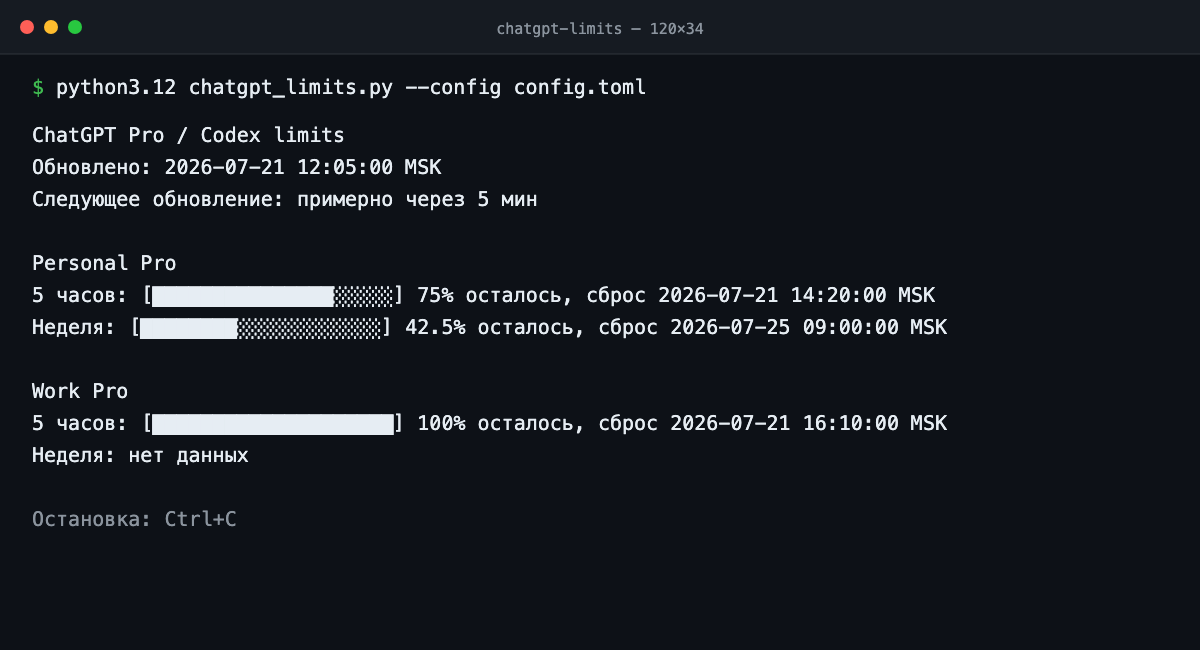
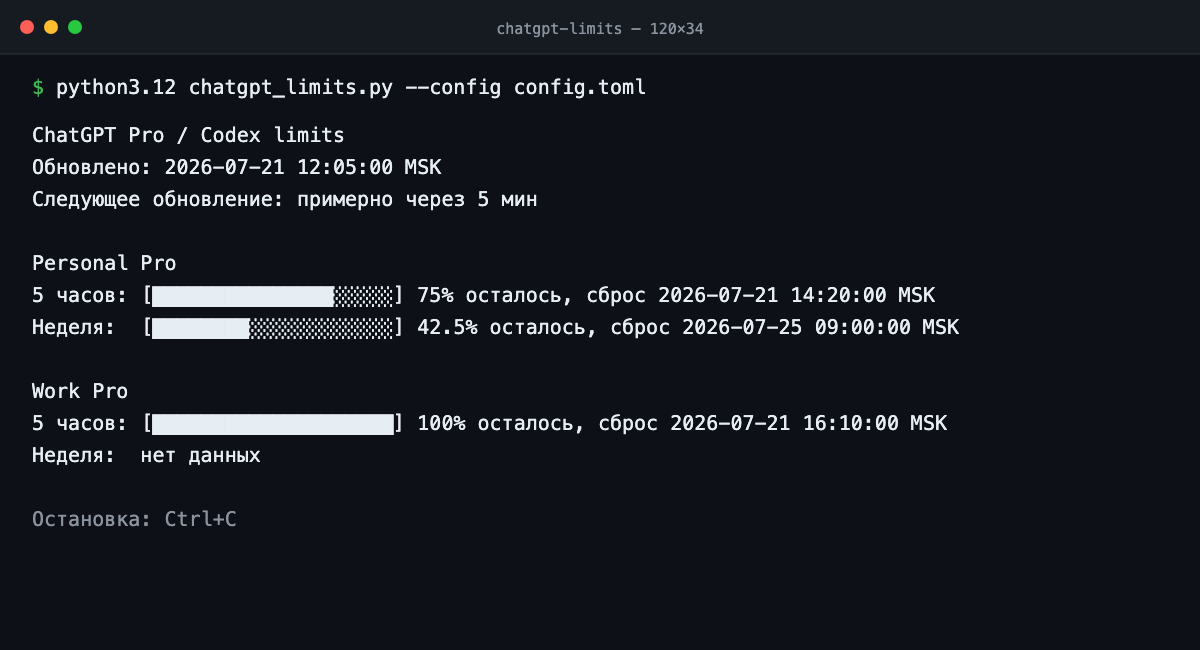
Align rate limit columns for 1.1.0

diff --git a/chatgpt_limits.py b/chatgpt_limits.py
@@ -17,10 +17,14 @@ from typing import BinaryIO, Dict, List, Optional, Pattern, Sequence, Set
 
 APP_NAME: str = "chatgpt-limits"
 APP_TITLE: str = "ChatGPT Limits"
-APP_VERSION: str = "1.0.0"
+APP_VERSION: str = "1.1.0"
 SCREEN_TITLE: str = "ChatGPT Pro / Codex limits"
 FIVE_HOUR_LABEL: str = "5 часов"
 WEEK_LABEL: str = "Неделя"
+LIMIT_VALUE_COLUMN: int = max(
+    len(f"  {FIVE_HOUR_LABEL}: "),
+    len(f"  {WEEK_LABEL}: "),
+)
 NO_DATA_TEXT: str = "нет данных"
 UNKNOWN_RESET_TEXT: str = "сброс неизвестен"
 STOP_TEXT: str = "Остановка: Ctrl+C"
@@ -835,8 +839,9 @@ def format_limit_line(
     Returns:
         Fully formatted indented line
     """
+    line_prefix: str = f"  {label}: ".ljust(LIMIT_VALUE_COLUMN)
     if window is None:
-        return f"  {label}: {NO_DATA_TEXT}"
+        return f"{line_prefix}{NO_DATA_TEXT}"
 
     remaining_percent: float = MAX_PERCENT - window.used_percent
     percentage_text: str = format_percentage(remaining_percent)
@@ -849,7 +854,7 @@ def format_limit_line(
         reset_datetime: str = format_datetime(window.resets_at)
         reset_text = f"сброс {reset_datetime}"
 
-    return f"  {label}: [{bar_text}] {percentage_text}% осталось, {reset_text}"
+    return f"{line_prefix}[{bar_text}] {percentage_text}% осталось, {reset_text}"
 
 
 def render_screen(

diff --git a/tests/test_chatgpt_limits.py b/tests/test_chatgpt_limits.py
@@ -701,7 +701,7 @@ def test_rpc_builders_match_wire_contract() -> None:
                 "clientInfo": {
                     "name": "chatgpt-limits",
                     "title": "ChatGPT Limits",
-                    "version": "1.0.0",
+                    "version": "1.1.0",
                 },
             },
         },
@@ -1733,7 +1733,7 @@ def test_format_limit_line_shows_no_data_without_guessing() -> None:
     actual: str = limits.format_limit_line(limits.WEEK_LABEL, window)
 
     # ASSERT
-    assert actual == "  Неделя: нет данных"
+    assert actual == "  Неделя:  нет данных"
     assert "100%" not in actual
 
 
@@ -1787,11 +1787,11 @@ def test_render_screen_matches_full_two_account_snapshot() -> None:
             "",
             "Personal Pro",
             f"  5 часов: [███████████████░░░░░] 75% осталось, сброс {limits.format_datetime(first_reset)}",
-            f"  Неделя: [████████░░░░░░░░░░░░] 42.5% осталось, сброс {limits.format_datetime(second_reset)}",
+            f"  Неделя:  [████████░░░░░░░░░░░░] 42.5% осталось, сброс {limits.format_datetime(second_reset)}",
             "",
             "Work Pro",
             f"  5 часов: [████████████████████] 100% осталось, сброс {limits.format_datetime(third_reset)}",
-            "  Неделя: нет данных",
+            "  Неделя:  нет данных",
             "",
             "Остановка: Ctrl+C",
         ],
@@ -1822,7 +1822,7 @@ def test_render_screen_ignores_unrecognized_durations() -> None:
 
     # ASSERT
     assert "5 часов: нет данных" in screen
-    assert "Неделя: нет данных" in screen
+    assert "Неделя:  нет данных" in screen
     assert "15" not in screen
 
 